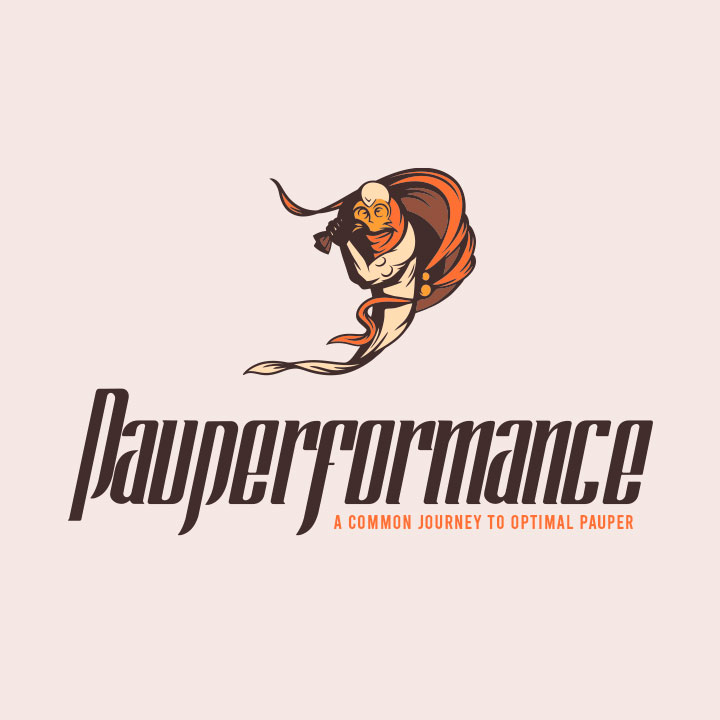
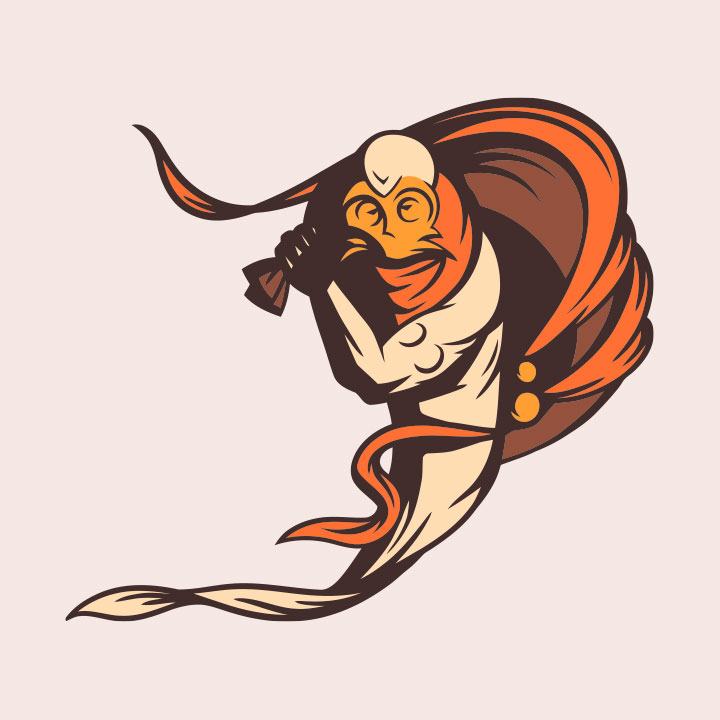
PAUPERFORMANCE

Changed region(s): [[0.0917, 0.1222, 0.9167, 0.8861]]

diff --git a/pauper.html b/pauper.html
@@ -123,9 +123,17 @@
                           <p> Pauperformance is an online project designed for a niche of players of Magic: The Gathering, the first and most popular trading card game in the world.</p>
                           <p>The project consists of distinct yet linked parts, spanning multiple websites and community platforms, uniquely characterized by a common set of stylistic traits. </p>
                     </div>
-						
-						
-                        <div class="one_half last animate">
+						<div class="one_half last" style="margin-top:30px">
+                          <p> The customer's desire was a logo that joins the letter "P" with the sketch of Gray Merchant of Asphodel, a character from the game.</p>
+                          <p>Starting with a stylization of the original illustration and taking advantage of the sack that the merchant brings with him, we managed to simulate the letter without losing the reference's recognition.</p>
+                          <p>As for Mildly Poisonous, in this case, the logo is different from the previous ones, thanks to a less geometric and more illustrative style. </p>
+                    </div>
+						  <div class="one_half  animate">
+                        <img src="images/pauper_22.jpg " alt="pauperformance | logo">
+							  <p class="aligncenter" style="font-size: 10pt; text-align: center;">Gray Merchant of Asphodel | <em>original artwork</em></p>
+                        </div>
+					  
+                    <div class="one_half last animate">
                         <img src="images/pauper_2.jpg " alt="pauperformance | logo">
                         </div>
                         <br>
@@ -244,27 +252,8 @@
 		 
                  </div>
 			
-		<!-- gallery -->	
-			<div class="top-content">
-                  <div class="one margin-0 animate">
-<img src="images/mildly_14.jpg" alt="mildly poisonous_logo | stationary" />
-         </div>
- <div class="one_half margin-0 animate">
-                          <img src="images/mildly_15.jpg" alt="mildly poisonous_stationary" />
-                            </div>
-
-                           <div class="one_half last margin-0 animate">
-                        <img src="images/mildly_16.jpg" alt="mildly poisonous_stationary" /> 
-                            </div>
-				
-			         <div class="one margin-0 animate">
-         </div>
-				
-                            <div class="clear"></div>
-
-                                
-                        </div>	
-	            
+	
+			
 					  
                   </div>
 					

diff --git a/portfolio.html b/portfolio.html
@@ -206,13 +206,13 @@
 					 
          </div></a>
 			
-					  <a href="work in progress.html"><div class="member one_third ">
+					  <a href="pauper.html"><div class="member one_third ">
          <img src="images/port_8.jpg" alt="Pauperformance logo">
            <div class="member-info">
               <div class="member-name">Pauperformance</div>
                  <div class="member-social-holder">
                  <div class="entry-info">
-                     <div class="entry-date published" style="color:#A67244; text-align: center;"> COMING SOON</div>
+                     <div class="entry-date published" style="color:#A67244; text-align: center;"> SEE MORE</div>
                  </div>
              </div>
                 </div>

diff --git a/portfolio_b.html b/portfolio_b.html
@@ -206,13 +206,13 @@
 					 
          </div></a>
 			
-					  <a href="work in progress.html"><div class="member one_third ">
+					 <a href="pauper.html"><div class="member one_third ">
          <img src="images/port_8.jpg" alt="Pauperformance logo">
            <div class="member-info">
               <div class="member-name">Pauperformance</div>
                  <div class="member-social-holder">
                  <div class="entry-info">
-                     <div class="entry-date published" style="color:#A67244; text-align: center;"> COMING SOON</div>
+                     <div class="entry-date published" style="color:#A67244; text-align: center;"> SEE MORE</div>
                  </div>
              </div>
                 </div>
